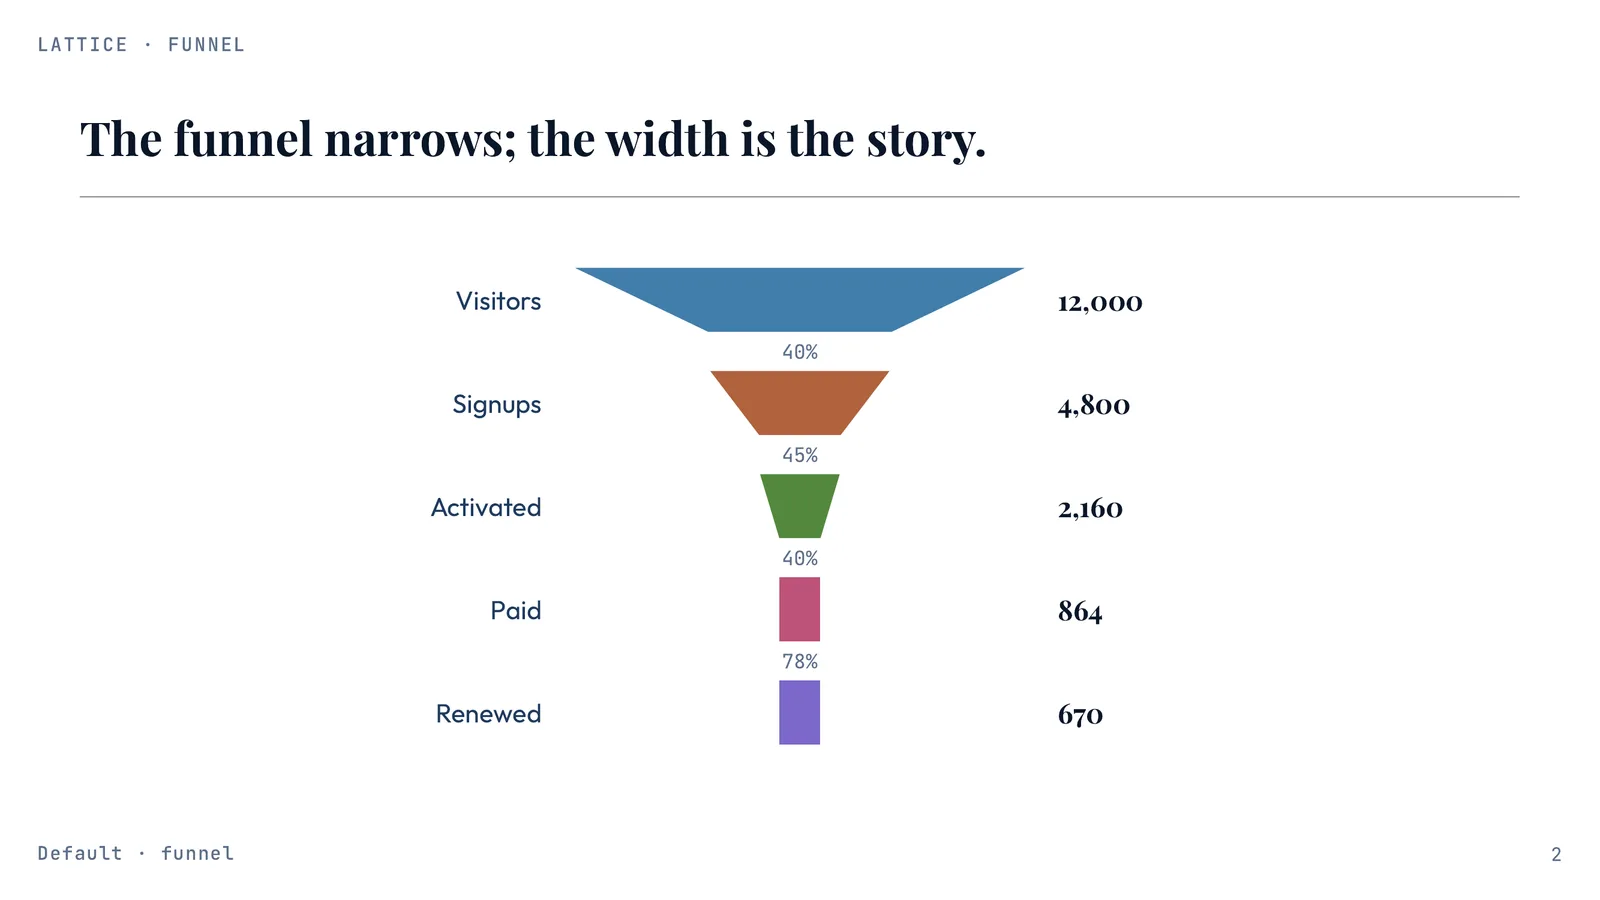
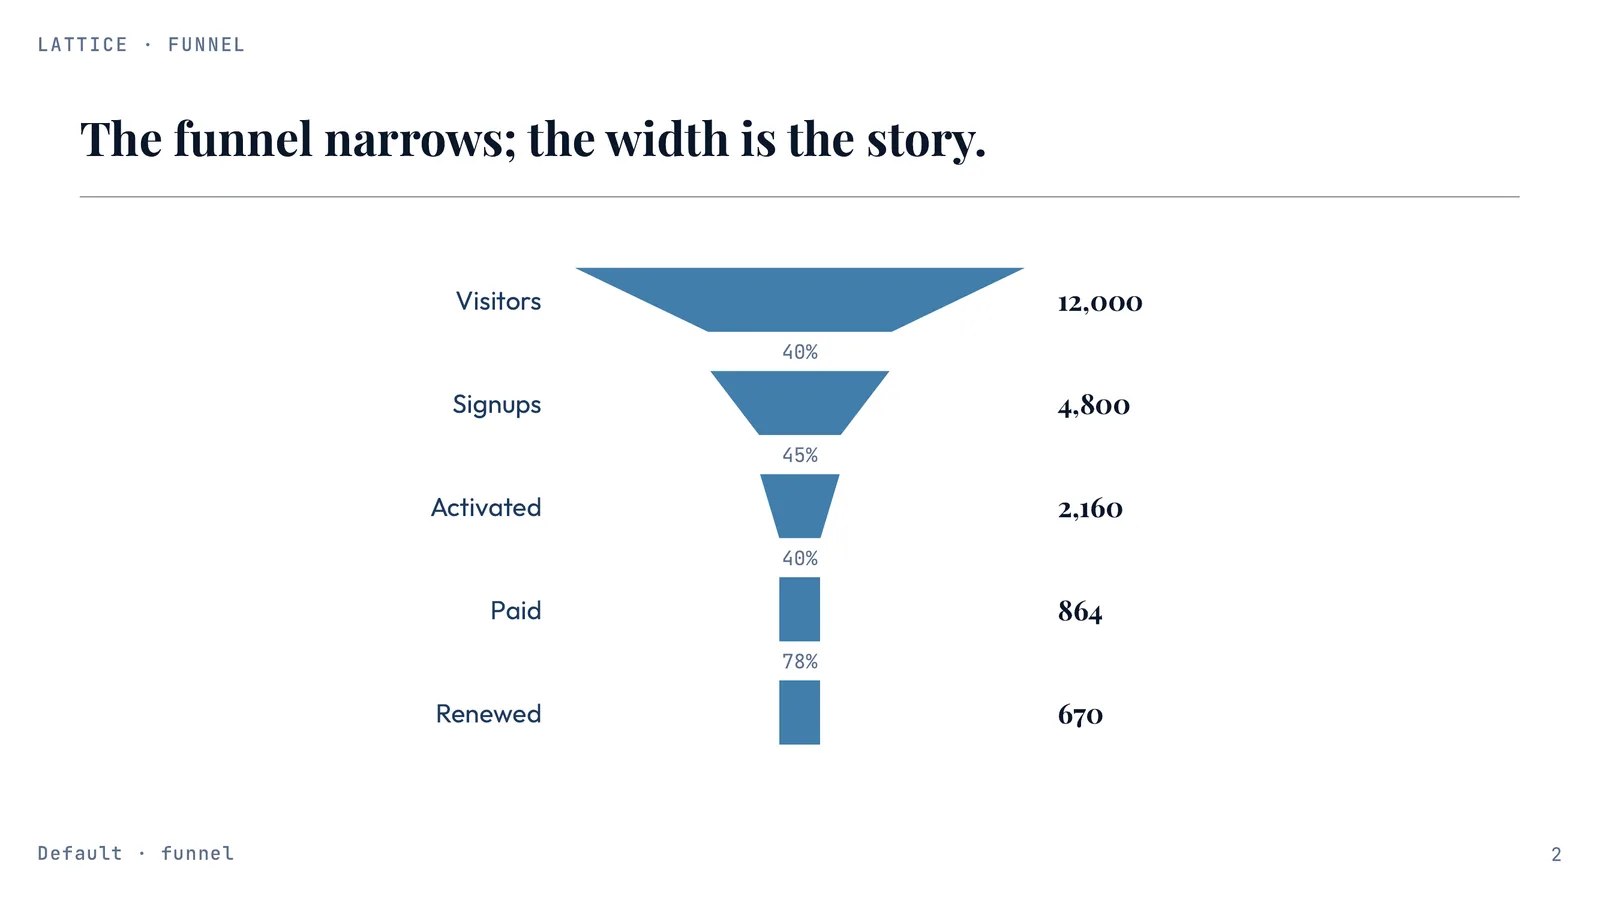
chart(ci): drive PR #2148 green — stale showcase rasters and a ReDoS in a test
Four red checks, two causes, both mine.

preview / docs-build / ci all failed on the same line: showcase:check
found funnel.light, funnel.dark, radar.light and radar.dark stale. The
hue collapse and the radar work moved those gallery PDFs, and the docs
site's WebP rasters are generated from them. Regenerated with
docs/scripts/rasterize-showcase.mjs. ci was only red because it
aggregates docs-build; lint, unit and integration all passed.

CodeQL flagged a high-severity polynomial regex in map.test.js, and it
was right. `class="chart-key-swatch"[^>]*?fill="..."` pairs a lazy
quantifier with a following literal the quantifier can also match, so a
crafted string backtracks polynomially. Split on the class and read
forward from each chunk with one anchored [^>]* instead; linear, and the
33 map tests still pass.

Also the three 'useless assignment to fillStyle' review comments. The
reset is NOT useless -- a canvas keeps its previous fillStyle when a
value fails to parse, so without it an unparseable colour silently
returns the last one measured. chart-mark-separation already made that
guard explicit and reads back; chart-colour-reach and chart-hue-jobs did
not, which is exactly why they read as dead writes. Both now set a
sentinel and check it, and chart-finish-coherence gets the same
treatment before a bot finds it too. The mark-separation finding is a
false positive and gets a reply rather than a change to correct code.
[…]

Changed region(s): [[0.4688, 0.5289, 0.5312, 0.7156], [0.4375, 0.4044, 0.5625, 0.4978], [0.4688, 0.7467, 0.5312, 0.84]]

diff --git a/test/unit/components/map.test.js b/test/unit/components/map.test.js
@@ -133,7 +133,17 @@ describe('map kernel', () => {
       // The swatch reads the family's BODY tier now — one token instead of the
       // 82% recipe retyped per call site, which is what let five of ten sites
       // drift onto var(--bg) and paint a key that did not match its own marks.
-      const slots = [...html.matchAll(/class="chart-key-swatch"[^>]*?fill="var\(--chart-cat-(\d)-body\)/g)].map((x) => +x[1]);
+      // Split on the class, then read forward from the start of each chunk with
+      // ONE anchored `[^>]*`. The obvious `class="…"[^>]*?fill="…"` form pairs a
+      // lazy quantifier with a following literal the quantifier can also match,
+      // which backtracks polynomially on a crafted string (CodeQL flagged it as
+      // a high-severity ReDoS on library input). Anchoring makes it linear.
+      const slots = html
+        .split('class="chart-key-swatch"')
+        .slice(1)
+        .map((chunk) => /^[^>]*fill="var\(--chart-cat-(\d)-body\)/.exec(chunk))
+        .filter(Boolean)
+        .map((x) => +x[1]);
       assert.deepEqual(slots, [1, 2, 3, 4, 5, 6, 1], 'seventh region wraps back to slot 1');
     });
   });

diff --git a/tools/chart-hue-jobs.js b/tools/chart-hue-jobs.js
@@ -121,7 +121,16 @@ async function main() {
           if (!stop) return null;
           c = getComputedStyle(stop).stopColor;
         }
-        cx.clearRect(0, 0, 1, 1); cx.fillStyle = '#000'; cx.fillStyle = c; cx.fillRect(0, 0, 1, 1);
+        // A canvas keeps its PREVIOUS fillStyle when a value does not parse, so
+        // the sentinel is what tells a bad value apart from a real black. Reading
+        // it back makes that guard explicit — an implicit reset reads to a linter
+        // (and to the next person) as a write nothing uses.
+        const SENTINEL = '#010203';
+        cx.clearRect(0, 0, 1, 1);
+        cx.fillStyle = SENTINEL;
+        cx.fillStyle = c;
+        if (cx.fillStyle === SENTINEL && String(c).toLowerCase() !== SENTINEL) return null;
+        cx.fillRect(0, 0, 1, 1);
         const d = cx.getImageData(0, 0, 1, 1).data;
         return d[3] === 0 ? null : `${d[0]},${d[1]},${d[2]}`;
       };

diff --git a/tools/chart-colour-reach.js b/tools/chart-colour-reach.js
@@ -108,8 +108,14 @@ async function main() {
       const toRgb = (c) => {
         if (!c || c === 'none') return null;
         cx.clearRect(0, 0, 1, 1);
-        cx.fillStyle = '#000';
+        // A canvas keeps its PREVIOUS fillStyle when a value does not parse, so
+        // the sentinel is what tells a bad value apart from a real black. Reading
+        // it back makes that guard explicit — an implicit reset reads to a linter
+        // (and to the next person) as a write nothing uses.
+        const SENTINEL = '#010203';
+        cx.fillStyle = SENTINEL;
         cx.fillStyle = c;
+        if (cx.fillStyle === SENTINEL && c.toLowerCase() !== SENTINEL) return null;
         cx.fillRect(0, 0, 1, 1);
         const d = cx.getImageData(0, 0, 1, 1).data;
         return d[3] === 0 ? null : `rgb(${d[0]}, ${d[1]}, ${d[2]})`;
